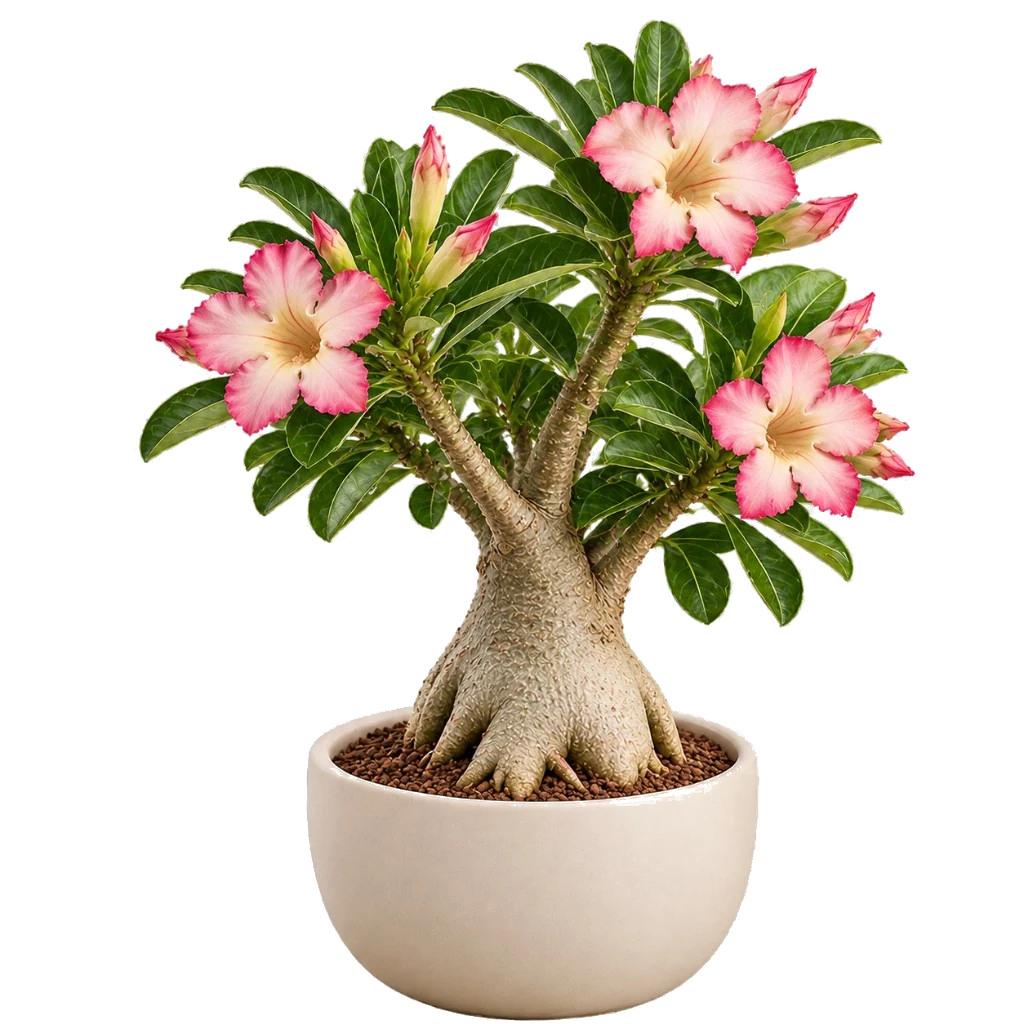
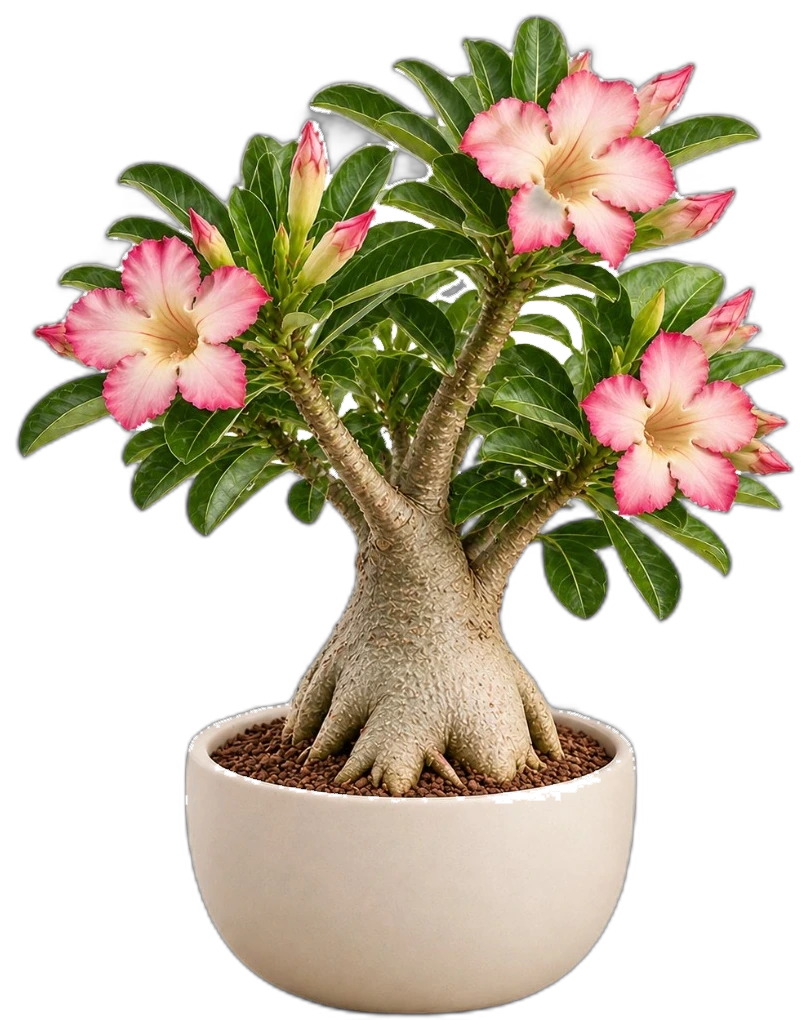
Serve the site at joelhanson.com/jacobsadenium.
Use a Next basePath for the project Pages path under the existing joelhanson.com domain, and drop the separate subdomain CNAME.

diff --git a/src/app/page.tsx b/src/app/page.tsx
@@ -12,9 +12,9 @@ export default function HomePage() {
 
   const heroColors = [
     {
-      src: "/plants/adenium-3d.webp",
-      name: "Classic Pink",
-      note: "Signature pink blooms",
+      src: "/plants/adenium-3d-fuchsia.webp",
+      name: "Fuchsia Pink",
+      note: "Hot pink to cream centre",
     },
     {
       src: "/plants/adenium-3d-purple.webp",
@@ -95,10 +95,11 @@ export default function HomePage() {
             <div className="animate-fade relative mx-auto flex min-h-[22rem] w-full max-w-lg items-center justify-center sm:min-h-[26rem] lg:max-w-none">
               <div className="hero-orb relative z-10 aspect-square w-[78%] max-w-[22rem] overflow-hidden rounded-full border-[6px] border-lime/45 bg-forest-deep/40 sm:w-[85%] sm:max-w-[26rem]">
                 <Image
-                  src="/plants/adenium-3d.webp"
-                  alt="Classic pink Adenium"
+                  src="/plants/adenium-3d-fuchsia.webp"
+                  alt="Fuchsia pink Adenium"
                   fill
-                  priority
+                  preload
+                  quality={75}
                   className="object-contain p-4 sm:p-6"
                   sizes="(max-width: 768px) 70vw, 420px"
                 />
@@ -297,7 +298,7 @@ export default function HomePage() {
         <div className="grid items-center gap-10 lg:grid-cols-[1.2fr_0.8fr]">
           <div className="grid grid-cols-2 gap-3">
             {[
-              "/plants/adenium-3d.webp",
+              "/plants/adenium-3d-fuchsia.webp",
               "/plants/adenium-3d-purple.webp",
               "/plants/adenium-3d-coral.webp",
               "/plants/adenium-3d-cream.webp",
@@ -378,7 +379,7 @@ export default function HomePage() {
 
           <div className="mt-10 grid gap-4 sm:grid-cols-2 lg:grid-cols-4">
             {finest.map((plant, index) => {
-              const isPng = plant.image.endsWith(".png");
+              const cutout = isProductCutout(plant.image);
               return (
               <article
                 key={plant.id}
@@ -389,14 +390,14 @@ export default function HomePage() {
                 <div
                   className={`relative ${
                     index === 0 ? "aspect-[4/3] sm:aspect-auto sm:h-full sm:min-h-[26rem]" : "aspect-[3/4]"
-                  }`}
+                  } ${cutout ? "bg-mint-deep/50" : ""}`}
                 >
                   <Image
                     src={plant.image}
                     alt={plant.name}
                     fill
                     className={`plant-media ${
-                      isPng ? "object-contain p-5 sm:p-8" : "object-cover"
+                      cutout ? "object-contain p-5 sm:p-8" : "object-cover"
                     }`}
                     sizes={index === 0 ? "(max-width: 640px) 100vw, 50vw" : "25vw"}
                   />

diff --git a/src/components/PlantCard.tsx b/src/components/PlantCard.tsx
@@ -1,5 +1,5 @@
 import Image from "next/image";
-import type { Plant } from "@/lib/plants";
+import { isProductCutout, type Plant } from "@/lib/plants";
 import { whatsappHref } from "@/lib/site";
 
 export function PlantCard({
@@ -16,6 +16,7 @@ export function PlantCard({
     lime: "bg-lime-soft",
     forest: "bg-forest text-foam",
   };
+  const cutout = isProductCutout(plant.image);
 
   return (
     <article
@@ -26,16 +27,14 @@ export function PlantCard({
       <div
         className={`relative overflow-hidden ${
           featured ? "aspect-[16/10] sm:aspect-[16/9]" : "aspect-[4/5]"
-        } ${plant.image.endsWith(".png") ? "bg-mint-deep/60" : ""}`}
+        } ${cutout ? "bg-mint-deep/60" : ""}`}
       >
         <Image
           src={plant.image}
           alt={plant.name}
           fill
           className={`plant-media ${
-            plant.image.endsWith(".png")
-              ? "object-contain p-4 sm:p-6"
-              : "object-cover"
+            cutout ? "object-contain p-4 sm:p-6" : "object-cover"
           }`}
           sizes={featured ? "(max-width: 768px) 100vw, 66vw" : "(max-width: 768px) 100vw, 33vw"}
         />

diff --git a/src/lib/adenium.ts b/src/lib/adenium.ts
@@ -23,6 +23,13 @@ export type AdeniumColor = {
 
 export const adeniumColors: AdeniumColor[] = [
   {
+    id: "fuchsia",
+    name: "Fuchsia Pink",
+    description: "Hot pink edges with a creamy yellow centre — bold and bright.",
+    swatch: "#e84393",
+    image: "/plants/adenium-3d-fuchsia.webp",
+  },
+  {
     id: "pink",
     name: "Classic Pink",
     description: "Bright pink blooms — our most loved starter colour.",
@@ -49,13 +56,6 @@ export const adeniumColors: AdeniumColor[] = [
     description: "Cream-white petals with a golden yellow throat.",
     swatch: "#f5ecd0",
     image: "/plants/adenium-3d-cream.webp",
-  },
-  {
-    id: "pink-cream",
-    name: "Pink & Cream",
-    description: "Soft pink rim with a creamy centre — elegant in morning light.",
-    swatch: "#f2a0b8",
-    image: "/plants/color-pink-white.webp",
   },
   {
     id: "deep-pink",

diff --git a/next.config.ts b/next.config.ts
@@ -1,10 +1,12 @@
 import type { NextConfig } from "next";
 
 const nextConfig: NextConfig = {
-  // Static HTML for GitHub Pages (custom domain: jacobs-adenium.joelhanson.com)
-  // cacheComponents / partialPrefetching enable PPR, which is incompatible with export.
+  // GitHub project Pages under joelhanson.com/jacobsadenium/
+  // (user site joel-hanson.github.io already uses joelhanson.com)
   output: "export",
+  basePath: "/jacobsadenium",
   trailingSlash: true,
+  // Required for static export — no image optimization server on Pages
   images: { unoptimized: true },
   turbopack: {
     rules: {

diff --git a/src/app/grow/[slug]/page.tsx b/src/app/grow/[slug]/page.tsx
@@ -50,7 +50,7 @@ export default async function GuidePage({ params }: Props) {
             <h2 className="font-display text-2xl text-forest sm:text-3xl">
               {section.heading}
             </h2>
-            <div className="mt-4 space-y-3 text-[1.05rem] font-light leading-relaxed text-ink/90">
+            <div className="mt-4 space-y-3 text-[1.05rem] leading-relaxed text-ink/90">
               {section.body.map((paragraph) => (
                 <p key={paragraph.slice(0, 40)}>{paragraph}</p>
               ))}

diff --git a/src/app/layout.tsx b/src/app/layout.tsx
@@ -10,7 +10,8 @@ import "./globals.css";
 const lato = Lato({
   variable: "--font-lato",
   subsets: ["latin"],
-  weight: ["300", "400", "700", "900"],
+  weight: ["400", "700"],
+  display: "swap",
 });
 
 export const metadata: Metadata = {

diff --git a/src/app/globals.css b/src/app/globals.css
@@ -64,7 +64,7 @@ body {
 
 .font-display {
   font-family: var(--font-lato), "Lato", Helvetica, Arial, sans-serif;
-  font-weight: 900;
+  font-weight: 700;
   letter-spacing: -0.035em;
 }
 

diff --git a/README.md b/README.md
@@ -2,7 +2,7 @@
 
 Marketing site for a family Adenium nursery in Manalur, Thrissur. Browse plants, read grow guides, call or visit — payments can be added later.
 
-**Live:** [jacobs-adenium.joelhanson.com](https://jacobs-adenium.joelhanson.com/) · **GitHub Pages** after DNS CNAME is set
+**Live:** [joelhanson.com/jacobsadenium](https://joelhanson.com/jacobsadenium/)
 
 ## Quick start
 
@@ -11,17 +11,11 @@ npm install
 npm run dev
 ```
 
-Open [http://localhost:3000](http://localhost:3000).
+Open [http://localhost:3000/jacobsadenium](http://localhost:3000/jacobsadenium).
 
 ## Deploy (GitHub Pages)
 
-Pushes to `main` build a static export and deploy via [`.github/workflows/pages.yml`](.github/workflows/pages.yml).
-
-One-time setup:
-
-1. Repo **Settings → Pages → Source: GitHub Actions**
-2. DNS CNAME: `jacobs-adenium` → `Joel-hanson.github.io` (Cloudflare: DNS only)
-3. Pages → Custom domain: `jacobs-adenium.joelhanson.com` (Enforce HTTPS)
+Pushes to `main` build a static export and deploy via [`.github/workflows/pages.yml`](.github/workflows/pages.yml) to `https://joelhanson.com/jacobsadenium/` (via your existing `joelhanson.com` → `joel-hanson.github.io` domain).
 
 ## Before go-live
 
